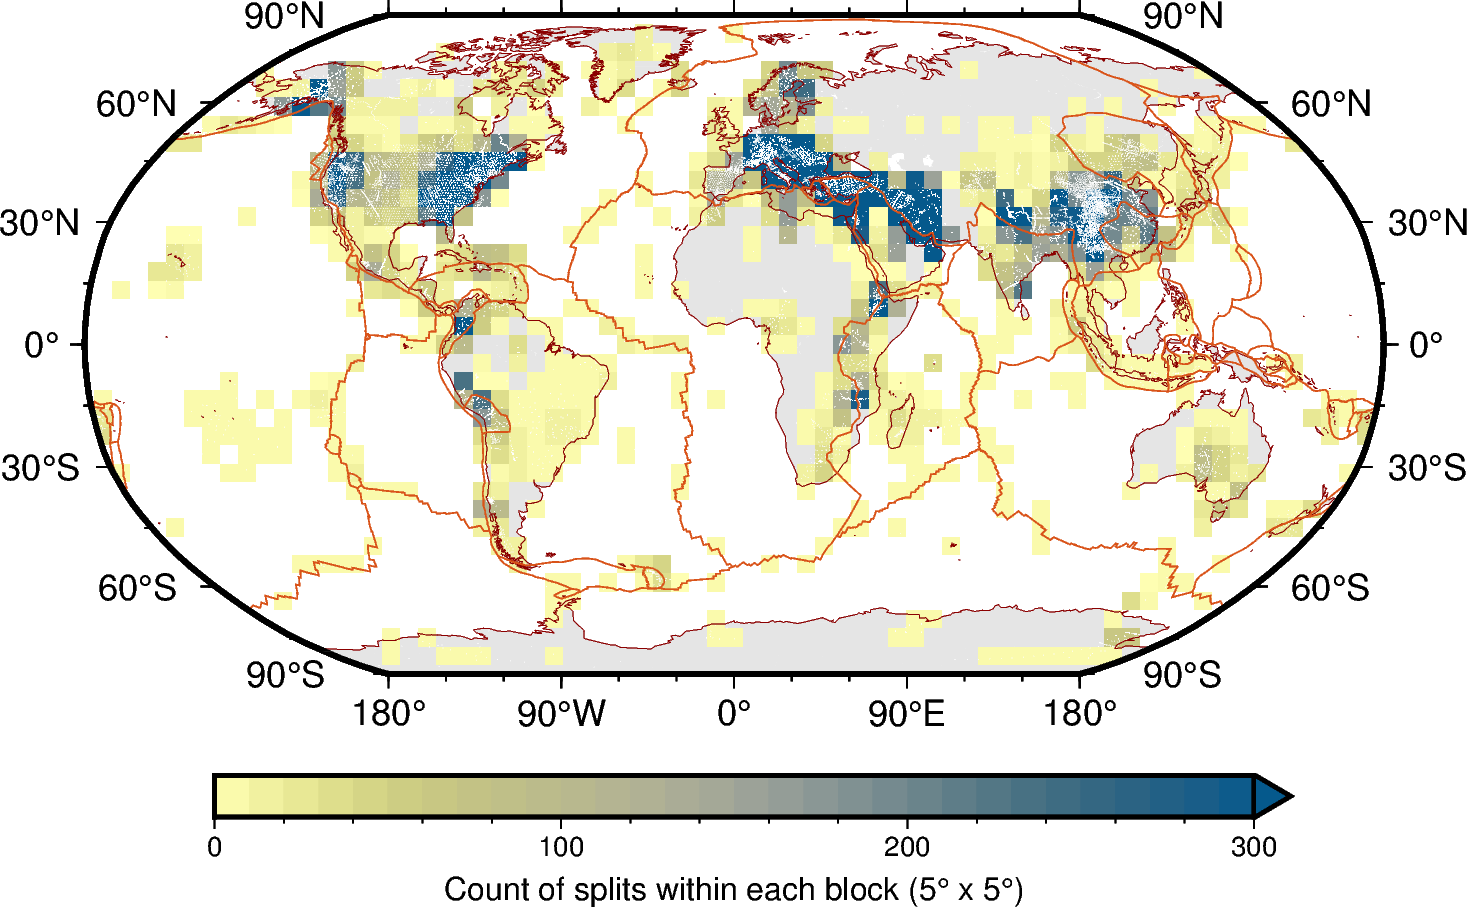
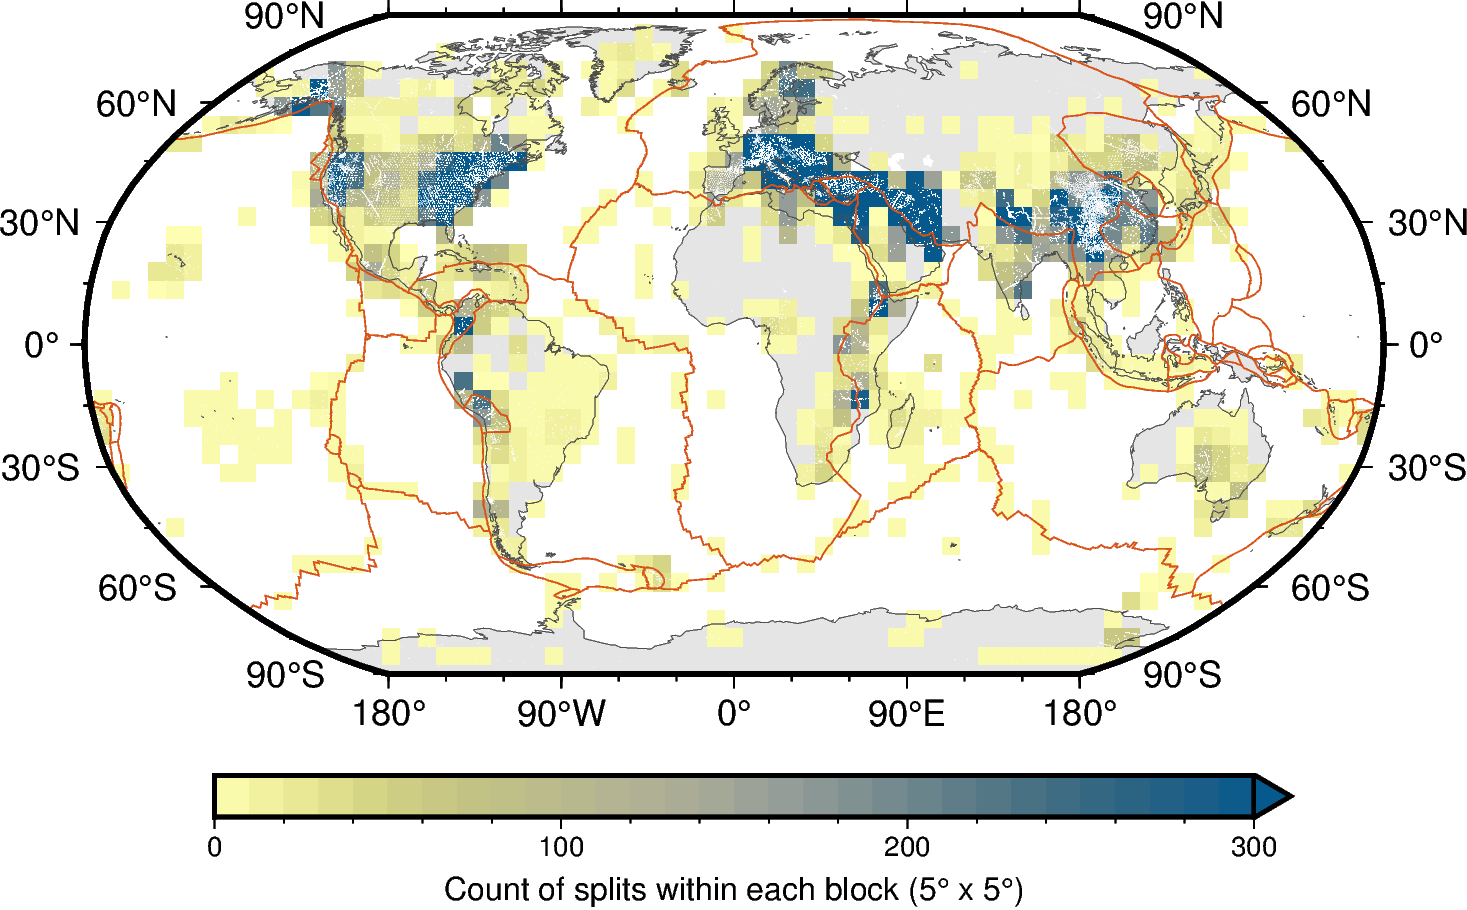
Update for fixes in database

diff --git a/006_tomographies_databases/01_db_sws/map_db_sws_spatial_distribution.py b/006_tomographies_databases/01_db_sws/map_db_sws_spatial_distribution.py
@@ -47,7 +47,7 @@ path_out = "02_out_figs"
 # Colors
 color_pb = "216.750/82.875/24.990"  # plate boundaries
 color_land = "gray90"
-color_sl = "darkred"  # shorelines
+color_sl = "gray30"  # shorelines
 color_split = "white"
 
 # Region and projection
@@ -125,6 +125,6 @@ for spacing in range(5, 21, 5):  # size of blocks in degrees
 
     fig_name = f"{path_out}/db_sws_spatial_distribution_splits_spacing{spacing}deg"
     # for ext in ["png"]:  # , "pdf", "eps"]:
-    #    fig.savefig(fname=f"{fig_name}.{ext}")
+    #     fig.savefig(fname=f"{fig_name}.{ext}")
 
     print(fig_name)
